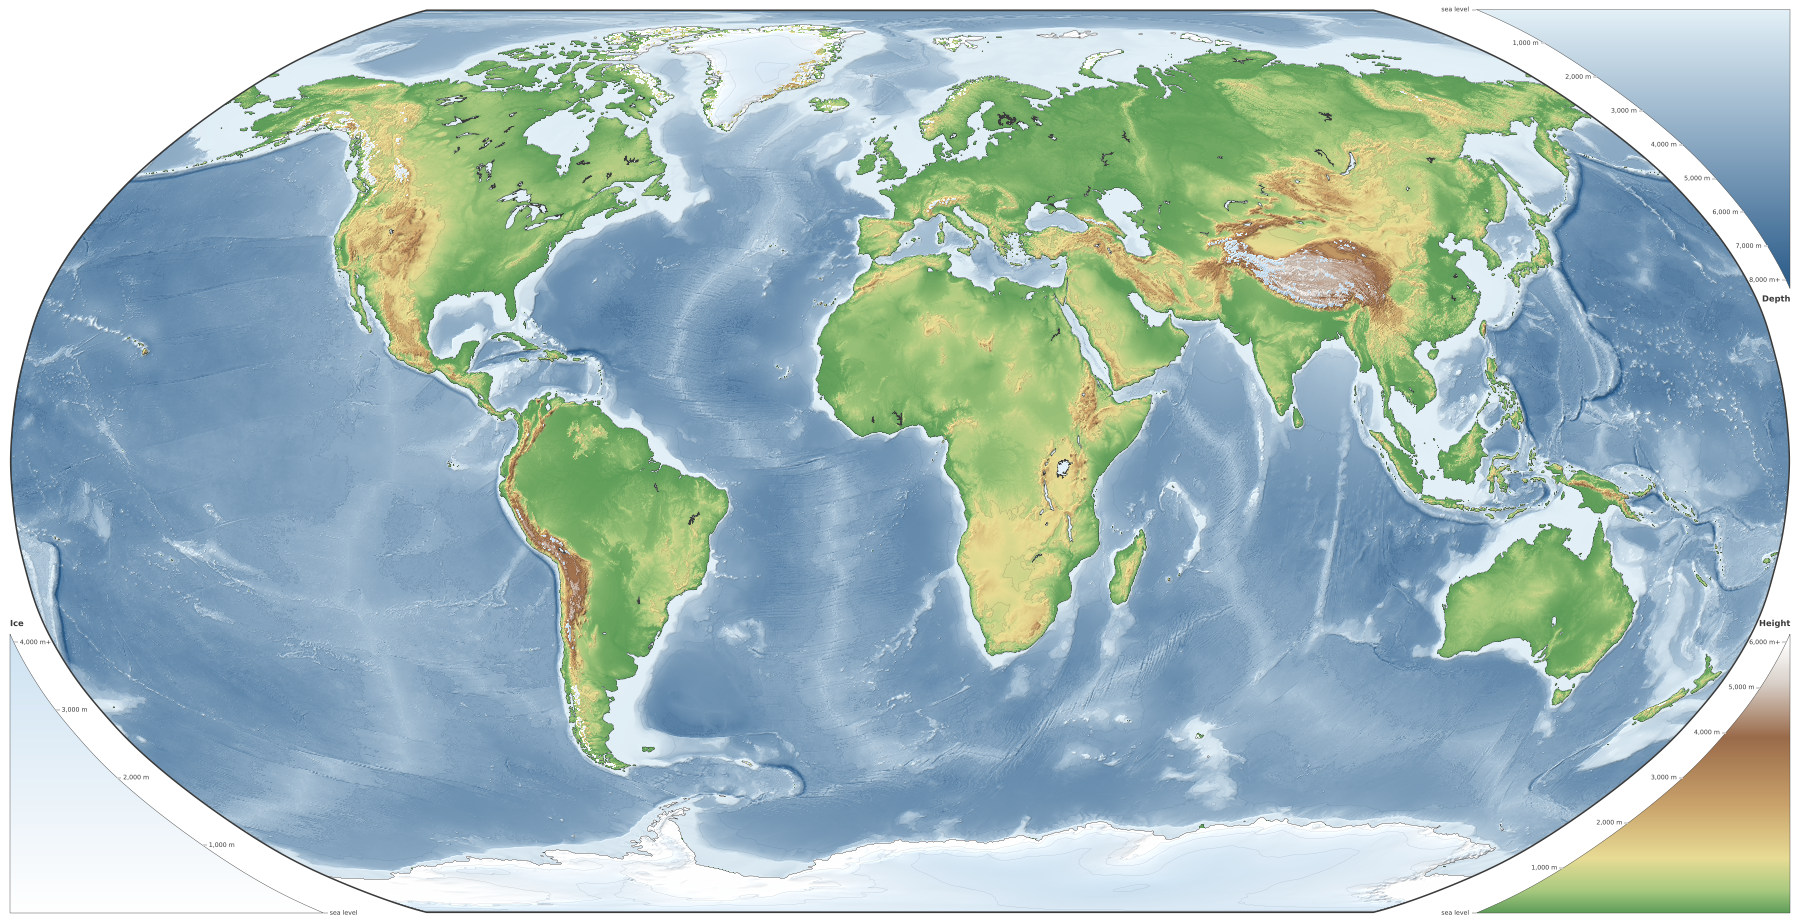
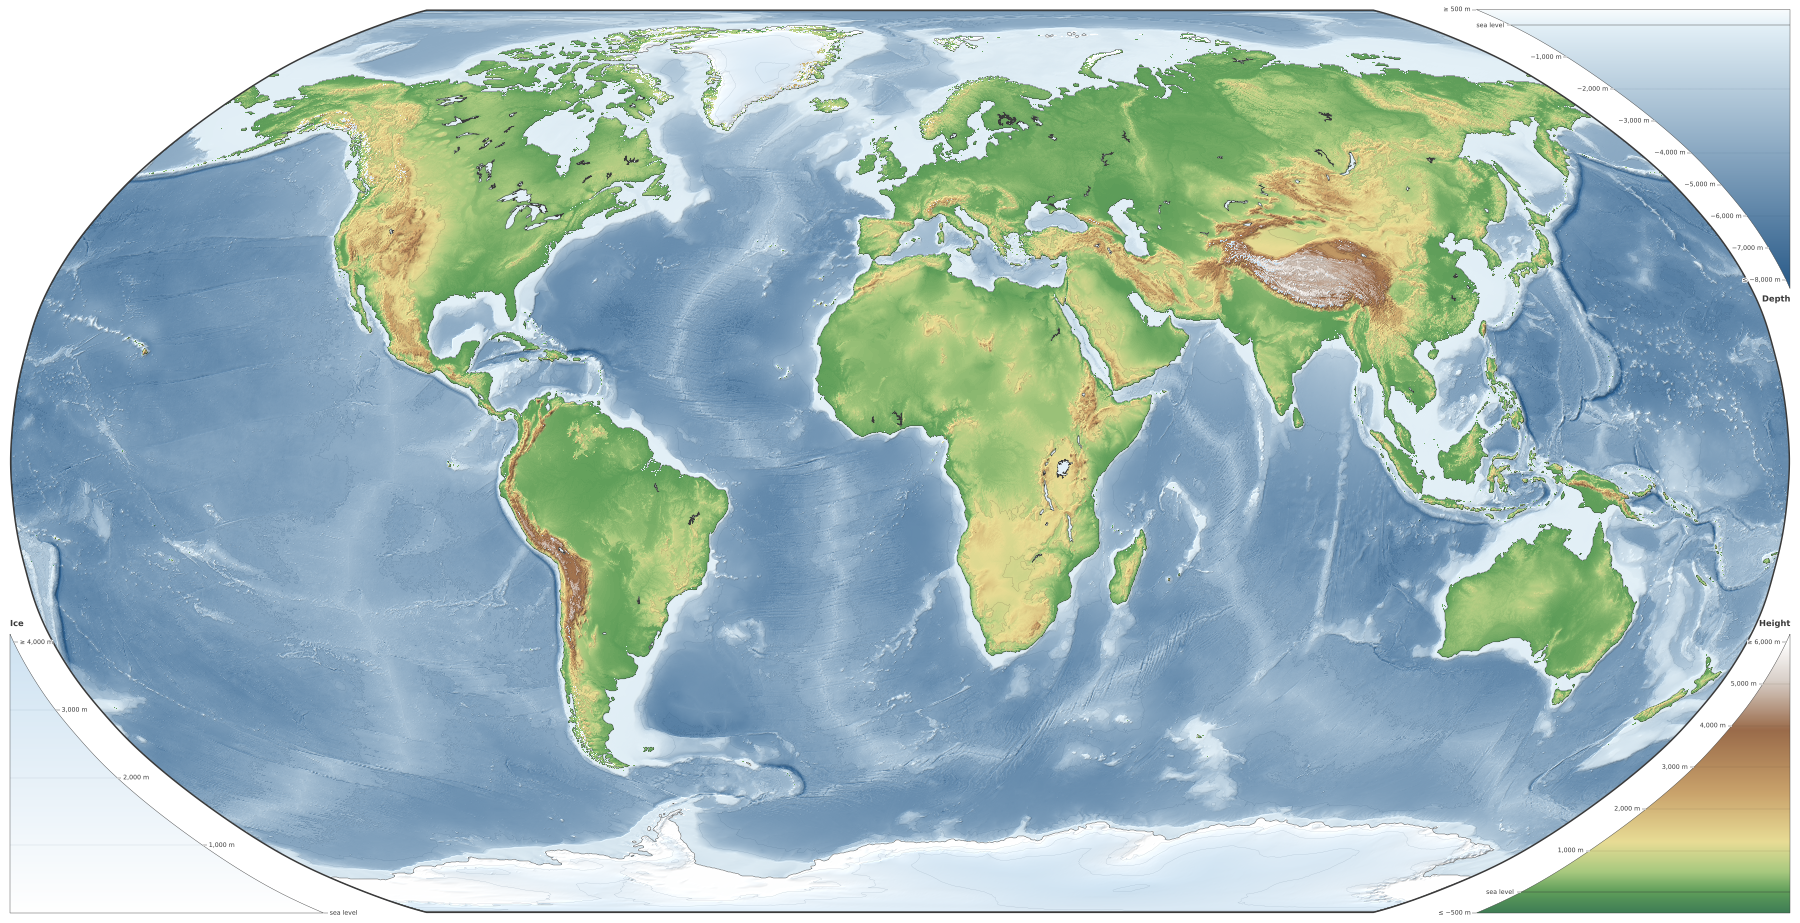
CLAUDE; *: topographic land mask, signed colour bars, memory notes
README notes that land below sea level stays land; examples/topographic.png re-rendered.

diff --git a/CLAUDE.md b/CLAUDE.md
@@ -48,7 +48,7 @@ Importing any module has no side effects; only `cli.main` (after choosing the ba
 | `colorspace.py` | OKLab/OKLCH conversions, `fit_gamut`, `darken` |
 | `coloring.py` | `merge_into_parents`, `adjacency`, `add_proximity_edges`, `color_graph`, `make_palette`, `load_or_compute_coloring` (cache), `spot_check`, `OCEAN` |
 | `disputed.py` | `--disputed`: `parse_note`, `ALIASES`, `HAND_CLAIMS`, `LABEL_TEXT`, `Dispute`, `load_disputes`, `dispute_edges`, `dispute_fills`, `stripe_parts`, `border_lines`, `disputed_label_args` |
-| `topographic.py` | `--type topographic`: `elevation_grid` (ETOPO -> cached 3' grid), `sample`, ramps and tops, `colorize`, `relief`, `shade`, `poster_grid`, `ice_mask`, `draw_topography` |
+| `topographic.py` | `--type topographic`: `elevation_grid` (ETOPO -> cached 3' grid), `sample`, `Scale` (`LAND`, `SEA`, `ICE`), `Contours`, `colorize`, `relief`, `shade`, `poster_grid`, `polygon_mask`, `coast_lines`, `draw_topography` |
 | `colorbars.py` | `--type topographic`: `bar_region`, `draw_colorbar` (right-triangle bars in the canvas corners) |
 | `earth.py` | `--color earth`: `earth_values` (raster sampling, cache), `earth_fill`, `build_regions`, `fill_at` |
 | `pins.py` | `load_pins`, `PinStyle` (every sprite shading constant), `pin_sprite`, `draw_pins`, `pick_pins` |
@@ -135,18 +135,25 @@ or labels run. `--color`, `--label`, `--disputed`, `--recolor` are ignored; `--o
 - Data: ETOPO 2022 60" ice-surface GeoTIFF (`data.ETOPO`, Deflate + float predictor, read with rasterio, the only
   user of it), reduced to `GRID_STEP_DEG` = 3' block means as int16 and cached in `etopo_3min.npy` (keyed on the file size
   and `ELEVATION_RULE`; bump it if the reduction changes). Ice: Natural Earth `glaciated_areas` + `antarctic_ice_shelves_polys`
-  (`load_ice`; the shelves' holes are dropped, the islands in them are ice-covered). Lakes: the political `load_lakes()`.
+  (`load_ice`; the shelves' holes are dropped, the islands in them are ice-covered). Land vs water: Natural Earth
+  `ne_10m_land` (`load_land`), not the sign of the height. Lakes: the political `load_lakes()`.
 - Raster (`draw_topography`): `poster_grid` inverse-projects every pixel centre at `min(dpi, DPI)` (one pixel per
-  cell; `inside` = re-projects to itself), `sample` is bilinear and wraps at +-180. Land is `z > 0`, ice wins over land
-  and sea (ice shelves). Colours: `LAND_RAMP` to `LAND_TOP`, `ICE_RAMP` to `ICE_TOP`, `SEA_RAMP` to `SEA_BOTTOM` with
-  `--ocean` else flat `OCEAN`. Shading is `relief()`, a Lambert term relative to flat ground (not matplotlib's
+  cell; `inside` = re-projects to itself), `sample` is bilinear and wraps at +-180. Masks (`polygon_mask`) are
+  rasterised with rasterio by pixel centre. Ice wins over land and water (ice shelves). Colours are signed `Scale`s
+  (`start` at the colour bar's canvas edge, `end` at its tip): `LAND` -500..6000 m (land below sea level is darker
+  green), `SEA` +500..-8000 m with `--ocean` (water above 0 m is ETOPO's averaging along coasts) else flat `OCEAN`,
+  `ICE` 0..4000 m. Shading is `relief()`, a Lambert term relative to flat ground (not matplotlib's
   `LightSource.hillshade`, which rescales to the steepest slope on the globe and flattened the Alps), scaled by
   `VERT_EXAG`, `LAND_SHADE`, `SEA_SHADE`.
 - Layers: raster at `Z_COUNTRY` clipped to the outline, contours just above (`LAND_CONTOURS`, `ICE_CONTOURS`,
-  `SEA_CONTOURS`), coastline (the 0 m contour, ice raised to 1 m) at `Z_BORDERS`, lakes at `Z_LAKES`, colour bars at `Z_GLOBE`.
+  `SEA_CONTOURS`, dashed), coastline at `Z_BORDERS`, lakes at `Z_LAKES`, colour bars at `Z_GLOBE`. The coastline
+  (`coast_lines`) is the 0.5 contour of the smoothed land-or-ice mask, not Natural Earth's outlines: those disagree
+  around Antarctica and left stray dashes.
+- Memory: a 200 dpi run peaks around 3.5 GB. Work in blocks or in place on the whole-poster arrays; don't use
+  `ax.contour` (its ContourSet keeps a float64 copy of the grid per call, ~665 MB each), use `contour_lines` (contourpy).
 - Colour bars (`colorbars.py`): height bottom-right, depth top-right (`--ocean` only), ice bottom-left. Each is its
-  corner quadrant minus the globe grown by `BAR_GAP_IN`, minus `BAR_MARGIN_IN`; labels in the gap with a white halo.
-- Known limitation: land below sea level (the Caspian depression, Qattara, the Dutch polders) is coloured as sea.
+  corner quadrant minus the globe grown by `BAR_GAP_IN`, minus `BAR_MARGIN_IN`; signed labels in the gap with a white
+  halo (ends marked `≥`/`≤`), the map's contour lines across the bar, and sea level in the coastline's style.
 
 ## Pins (`--pick`, `--pins`)
 

diff --git a/README.md b/README.md
@@ -32,7 +32,7 @@ make_map --pins pins.txt      # draw the pins; writes worldmap_pins.png
 
 | Option | Effect |
 | --- | --- |
-| `--type TYPE` | `political` (default): countries, borders and labels. `topographic`: heights with hill shading and contours, ice sheets and glaciers on their own scale, colour bars in the corners, and no borders or labels (`--color`, `--label`, `--disputed` and `--recolor` are ignored). The first run downloads ~470 MB of elevation data (ETOPO 2022). |
+| `--type TYPE` | `political` (default): countries, borders and labels. `topographic`: heights with hill shading and contours (land below sea level, like the Dead Sea shore, stays land), ice sheets and glaciers on their own scale, colour bars in the corners, and no borders or labels (`--color`, `--label`, `--disputed` and `--recolor` are ignored). The first run downloads ~470 MB of elevation data (ETOPO 2022). |
 | `--ocean` | With `--type topographic`, colour the sea by depth, with depth contours and a depth colour bar. Ignored with `--type political`. |
 | `--color NAME` | How countries are filled. `colorblind` (default): distinct colours that red/green colour-blind viewers can tell apart. `earth`: each region coloured by what it looks like from space; the first run downloads a ~75 MB raster. |
 | `--label LIST` | What to label: a comma-separated list, or `none`. `countries` (default): sovereign countries. `territories`: dependencies (Greenland, Bermuda, Guam...) and outlying parts of countries (Alaska, Tasmania, Kaliningrad...), in italics with the parent country in parentheses. The list replaces the default, so `--label territories` labels territories only. |
